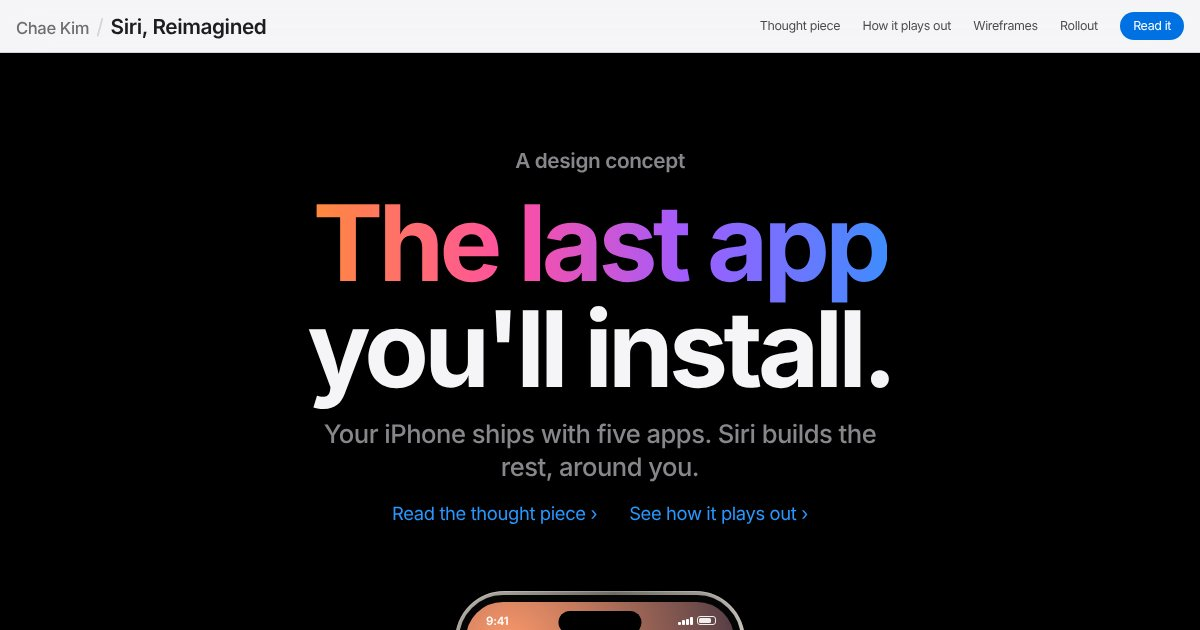
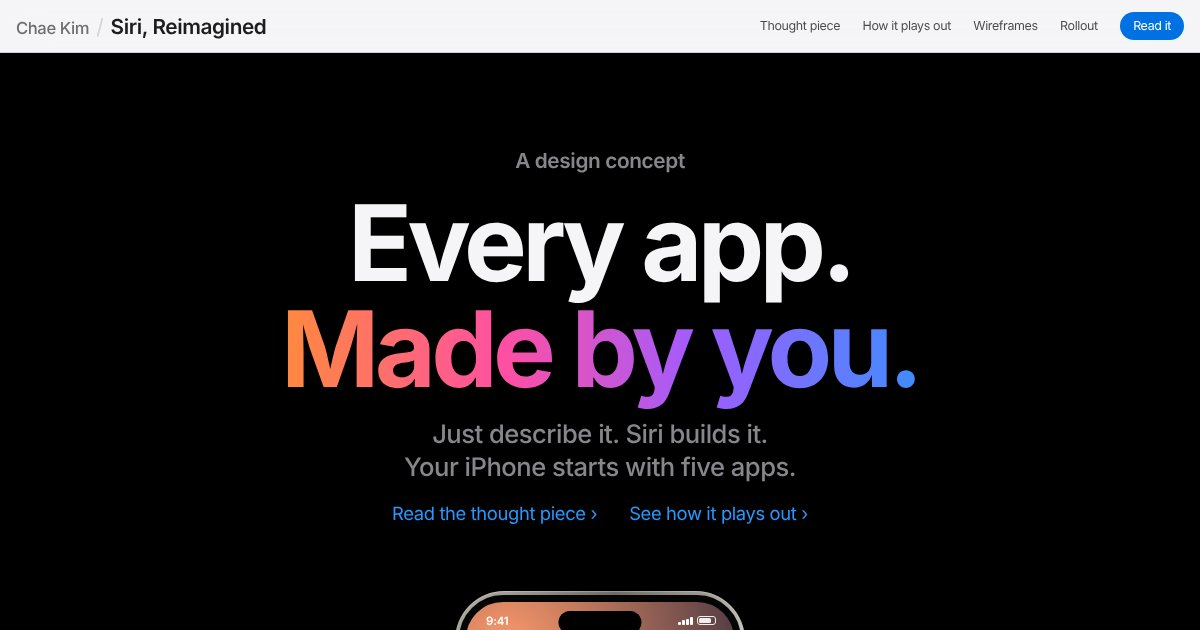
Retitle Siri, Reimagined: "Every app. Made by you."
Replace "The last app you'll install" (it never said which app, and Siri is
built in) with a headline about what the reader gets. New subhead: "Just
describe it. Siri builds it." Page title, home card, search data, llms.txt
and both share images updated to match.

Claude-Session: https://claude.ai/code/session_016B9NzgK8Vy4bKq8Vrr2zZ5

Changed region(s): [[0.2158, 0.3016, 0.7708, 0.754]]

diff --git a/projects/siri-reimagined.html b/projects/siri-reimagined.html
@@ -3,9 +3,9 @@
 <head>
   <meta charset="utf-8">
   <meta name="viewport" content="width=device-width, initial-scale=1, viewport-fit=cover">
-  <title>Siri, Reimagined: The Last App You'll Install · Chae Kim - Portfolio</title>
+  <title>Siri, Reimagined: Every App, Made by You · Chae Kim - Portfolio</title>
   <meta name="description" content="A design concept: an iPhone that ships with five apps, and a Siri that builds the rest. A thought piece on the future of the App Store and app development, with iPhone mockups and wireframes.">
-  <meta property="og:title" content="Siri, Reimagined: The Last App You'll Install · Chae Kim - Portfolio">
+  <meta property="og:title" content="Siri, Reimagined: Every App, Made by You · Chae Kim - Portfolio">
   <meta property="og:description" content="A design concept: an iPhone that ships with five apps, and a Siri that builds the rest. A thought piece on the future of the App Store and app development, with iPhone mockups and wireframes.">
   <meta property="og:type" content="article">
   <meta property="og:image" content="https://chaekim.vercel.app/assets/img/siri-reimagined/siri-reimagined/og.jpg">
@@ -507,8 +507,8 @@ footer .rule { border-top: 1px solid var(--hair); padding-top: 1rem; display: fl
     <div class="wrap">
       <div class="head">
         <span class="eyebrow muted">A design concept</span>
-        <h1><span class="grad">The last app</span><br>you'll install.</h1>
-        <p class="sub">Your iPhone ships with five apps. Siri builds the rest, around you.</p>
+        <h1>Every app.<br><span class="grad">Made by you.</span></h1>
+        <p class="sub">Just describe it. Siri builds it.<br>Your iPhone starts with five apps.</p>
         <div class="links"><a href="#essay">Read the thought piece ›</a><a href="#playout">See how it plays out ›</a></div>
       </div>
       <div class="hero-phones">

diff --git a/scripts/pages/siri-reimagined.html b/scripts/pages/siri-reimagined.html
@@ -3,9 +3,9 @@
 <head>
   <meta charset="utf-8">
   <meta name="viewport" content="width=device-width, initial-scale=1, viewport-fit=cover">
-  <title>Siri, Reimagined: The Last App You'll Install · Chae Kim - Portfolio</title>
+  <title>Siri, Reimagined: Every App, Made by You · Chae Kim - Portfolio</title>
   <meta name="description" content="A design concept: an iPhone that ships with five apps, and a Siri that builds the rest. A thought piece on the future of the App Store and app development, with iPhone mockups and wireframes.">
-  <meta property="og:title" content="Siri, Reimagined: The Last App You'll Install · Chae Kim - Portfolio">
+  <meta property="og:title" content="Siri, Reimagined: Every App, Made by You · Chae Kim - Portfolio">
   <meta property="og:description" content="A design concept: an iPhone that ships with five apps, and a Siri that builds the rest. A thought piece on the future of the App Store and app development, with iPhone mockups and wireframes.">
   <meta property="og:type" content="article">
   <meta property="og:image" content="%%SITE%%/assets/img/siri-reimagined/siri-reimagined/og.jpg">
@@ -507,8 +507,8 @@ footer .rule { border-top: 1px solid var(--hair); padding-top: 1rem; display: fl
     <div class="wrap">
       <div class="head">
         <span class="eyebrow muted">A design concept</span>
-        <h1><span class="grad">The last app</span><br>you'll install.</h1>
-        <p class="sub">Your iPhone ships with five apps. Siri builds the rest, around you.</p>
+        <h1>Every app.<br><span class="grad">Made by you.</span></h1>
+        <p class="sub">Just describe it. Siri builds it.<br>Your iPhone starts with five apps.</p>
         <div class="links"><a href="#essay">Read the thought piece ›</a><a href="#playout">See how it plays out ›</a></div>
       </div>
       <div class="hero-phones">

diff --git a/index.html b/index.html
@@ -238,7 +238,7 @@
         <div class="tray__h"><h3>Design &amp; brand <span>· 4</span></h3><a class="tray__close" href="#builds" data-fold-close>Close ✕</a></div>
         <div class="grid grid--shelf">
         <a class="w reveal" href="/projects/siri-reimagined">
-          <div class="stage" style="--g: var(--g-lucent)"><div class="art"><div class="browser"><div class="browser__bar"><i></i><i></i><i></i><span>siri, reimagined</span></div><img src="/assets/img/siri-reimagined/siri-reimagined-card.jpg" alt="Siri, Reimagined: the headline The last app you'll install, above three iPhones with Liquid Glass screens" width="960" height="600" loading="lazy"></div></div><span class="pill">Siri, Reimagined <em>concept</em></span></div>
+          <div class="stage" style="--g: var(--g-lucent)"><div class="art"><div class="browser"><div class="browser__bar"><i></i><i></i><i></i><span>siri, reimagined</span></div><img src="/assets/img/siri-reimagined/siri-reimagined-card.jpg" alt="Siri, Reimagined: the headline Every app. Made by you., above three iPhones with Liquid Glass screens" width="960" height="600" loading="lazy"></div></div><span class="pill">Siri, Reimagined <em>concept</em></span></div>
           <p class="meta">A design concept: an iPhone that ships with five apps, and a Siri that builds the rest.</p>
         </a>
         <a class="w reveal" href="/projects/portfolio">

diff --git a/scripts/projects/siri-reimagined.py b/scripts/projects/siri-reimagined.py
@@ -1,6 +1,6 @@
 PROJECT = dict(slug="siri-reimagined",
   card=r"""
-          <div class="stage" style="--g: var(--g-lucent)"><div class="art"><div class="browser"><div class="browser__bar"><i></i><i></i><i></i><span>siri, reimagined</span></div><img src="/assets/img/siri-reimagined/siri-reimagined-card.jpg" alt="Siri, Reimagined: the headline The last app you'll install, above three iPhones with Liquid Glass screens" width="960" height="600" loading="lazy"></div></div><span class="pill">Siri, Reimagined <em>concept</em></span></div>
+          <div class="stage" style="--g: var(--g-lucent)"><div class="art"><div class="browser"><div class="browser__bar"><i></i><i></i><i></i><span>siri, reimagined</span></div><img src="/assets/img/siri-reimagined/siri-reimagined-card.jpg" alt="Siri, Reimagined: the headline Every app. Made by you., above three iPhones with Liquid Glass screens" width="960" height="600" loading="lazy"></div></div><span class="pill">Siri, Reimagined <em>concept</em></span></div>
           <p class="meta">A design concept: an iPhone that ships with five apps, and a Siri that builds the rest.</p>
 """,
 )
